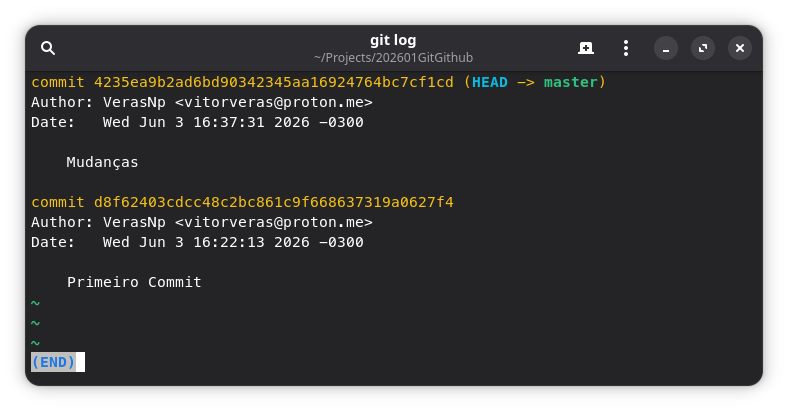
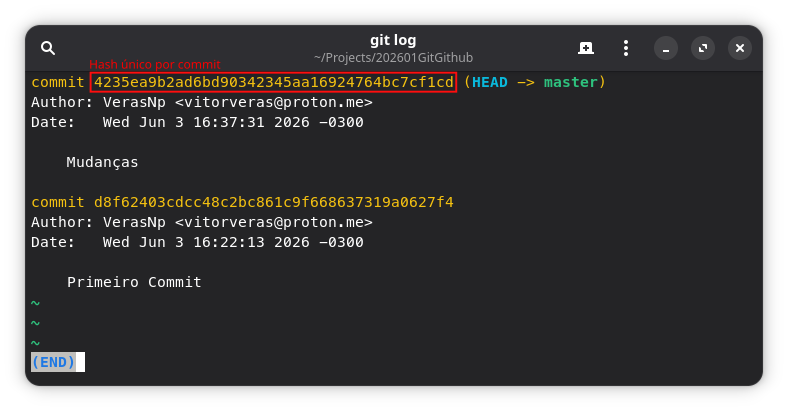
Finalização do dia 1

Changed region(s): [[0.0914, 0.146, 0.5787, 0.2336]]

diff --git a/slide/components/Slide11.vue b/slide/components/Slide11.vue
@@ -1,0 +1,20 @@
+<script setup lang="ts">
+</script>
+
+<template>
+    <div class="flex gap-10">
+        <div>
+            <p>
+                Repositórios são onde o código fonte reside.
+            </p>
+            <div class="flex gap-5">
+                <div>
+                    <img src="./../public/imgs/GitHubCreateRepositoryScreenshot.png">
+                </div>
+                <div>
+                    <img src="./../public/imgs/GitHubVueRepositoryScreenshot.png">
+                </div>
+            </div>
+        </div>
+    </div>
+</template>

diff --git a/slide/components/Slide10.vue b/slide/components/Slide10.vue
@@ -1,0 +1,15 @@
+<script setup lang="ts">
+</script>
+
+<template>
+    <div class="flex gap-10">
+        <div>
+            <p>
+                Uma plataforma de hospedagem de códigos nasceu em 2008 e mais atualmente é uma subsidiária da Microsoft.
+            </p>
+            <div>
+                <img src="./../public/imgs/GitHubScreenshot.png">
+            </div>
+        </div>
+    </div>
+</template>

diff --git a/slide/components/Slide06.vue b/slide/components/Slide06.vue
@@ -1,9 +1,4 @@
 <script setup lang="ts">
-
-const props = defineProps<{
-    text: string;
-    images?: ChildNode[]
-}>()
 </script>
 
 <template>

diff --git a/slide/slides.md b/slide/slides.md
@@ -1,24 +1,51 @@
 ---
-src: ./pages/01.md
+src: ./pages/PT1/01.md
 ---
+
 ---
-src: ./pages/02.md
+src: ./pages/PT1/02.md
 ---
+
 ---
-src: ./pages/03.md
+src: ./pages/PT1/03.md
 ---
+
 ---
-src: ./pages/04.md
+src: ./pages/PT1/04.md
 ---
+
 ---
-src: ./pages/05.md
+src: ./pages/PT1/05.md
 ---
+
 ---
-src: ./pages/06.md
+src: ./pages/PT1/06.md
 ---
+
 ---
-src: ./pages/ComandosBasicos/07.md
+src: ./pages/PT1/ComandosBasicos/07.md
 ---
+
 ---
-src: ./pages/ComandosBasicos/08.md
+src: ./pages/PT1/ComandosBasicos/08.md
+---
+
+---
+src: ./pages/PT1/ComandosBasicos/09.md
+---
+
+---
+src: ./pages/PT1/GitHub/10.md
+---
+
+---
+src: ./pages/PT1/GitHub/11.md
+---
+
+---
+src: ./pages/PT1/GitHub/12.md
+---
+
+---
+src: ./pages/PT1/13.md
 ---

diff --git a/slide/pages/PT1/13.md b/slide/pages/PT1/13.md
@@ -1,0 +1,21 @@
+---
+title: Git e GitHub
+transition: slide-left
+hideInToc: true
+layout: center
+
+---
+
+# Git e GitHub
+
+## Obrigado pela sua atenção
+
+[GitHub]()
+
+[LinkedIn]()
+
+<style>
+* {
+  text-align: center
+}
+</style>

diff --git a/slide/pages/PT1/GitHub/12.md b/slide/pages/PT1/GitHub/12.md
@@ -1,0 +1,17 @@
+---
+transition: slide-left
+---
+
+# Comandos de repositório remoto
+
+## `git clone`
+
+_"Clone a repository into a new directory_
+
+## `git push`
+
+_"Update remote refs along with associated objects"_
+
+## `git pull`
+
+_"Fetch from and integrate with another repository or a local branch"_

diff --git a/slide/pages/PT1/GitHub/11.md b/slide/pages/PT1/GitHub/11.md
@@ -1,0 +1,11 @@
+---
+hideInToc: true
+transition: slide-left
+---
+
+# GitHub
+
+## Repositórios
+
+<Slide11/>
+

diff --git a/slide/pages/PT1/ComandosBasicos/09.md b/slide/pages/PT1/ComandosBasicos/09.md
@@ -1,0 +1,9 @@
+---
+hideInToc: true
+transition: slide-left
+---
+# Comandos básicos
+
+## `git checkout`
+
+_"Switch branches or restore working tree files"_

diff --git a/slide/pages/PT1/GitHub/10.md b/slide/pages/PT1/GitHub/10.md
@@ -1,0 +1,6 @@
+---
+transition: slide-left
+---
+# GitHub
+
+<Slide10/>